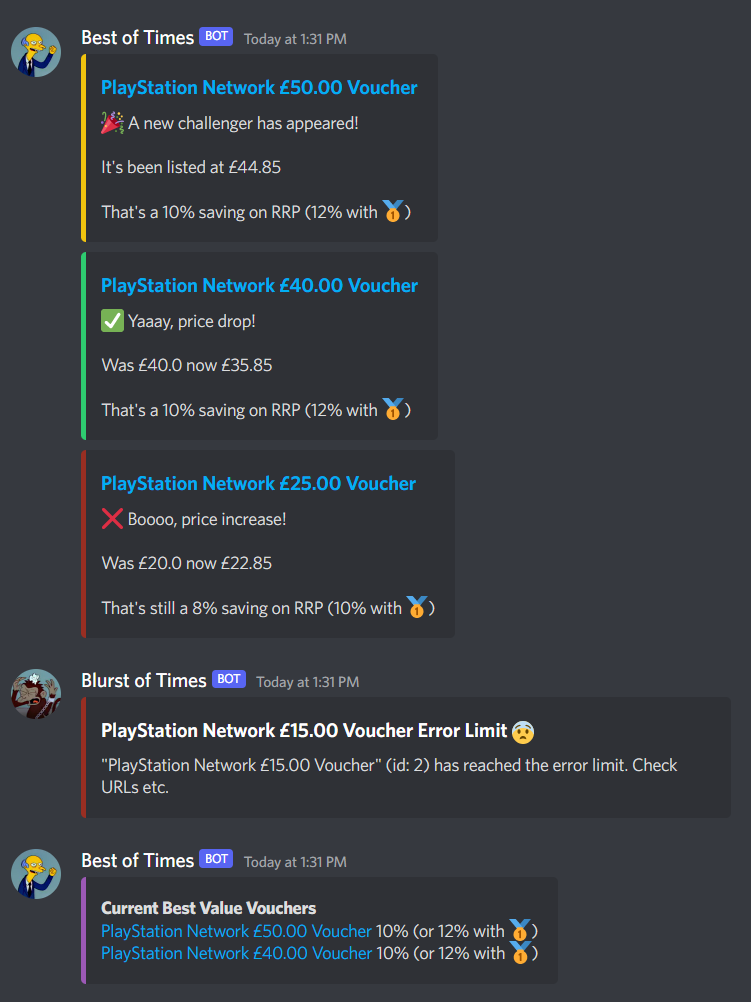
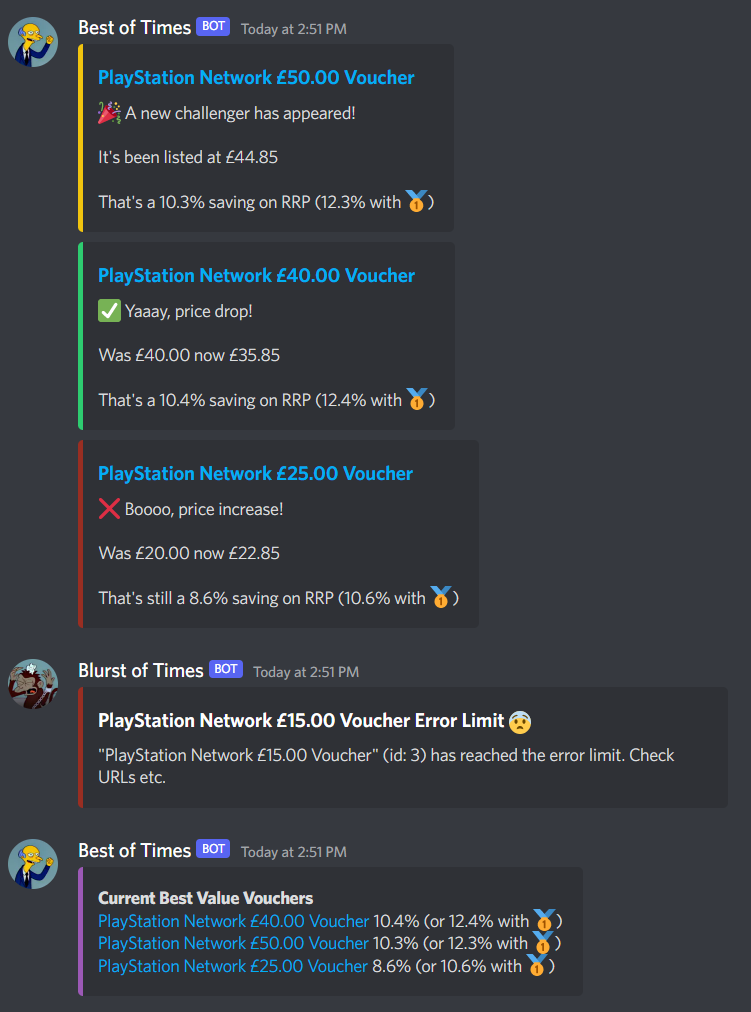
Better handling and storage of saving calculation To appease @tenaka30

Changed region(s): [[0.0, 0.0, 0.9188, 0.99]]

diff --git a/app.py b/app.py
@@ -189,34 +189,34 @@ def check_psn_vouchers(webhook_url="", webhook_error_url=""):
             if product["price"] == -1:
                 # New product (existing price is -1)
                 changed_data = True
-                print(f'A new challenger! {product["name"]} has been added at £{price}')
-                product["saving"] = int((product["rrp"] - price) / product["rrp"] * 100)
-                product["savingGold"] = int((product["rrp"] - price) / product["rrp"] * 100 + loyalty_discount)
-                discord_message_embed["description"] = f'🎉 A new challenger has appeared!\n\nIt\'s been listed at £{price}\n\nThat\'s a {product["saving"]}% saving on RRP ({product["savingGold"]}% with 🥇)'
+                print(f'A new challenger! {product["name"]} has been added at £{price:0.2f}')
+                product["saving"] = (product["rrp"] - price) / product["rrp"] * 100
+                product["savingGold"] = (product["rrp"] - price) / product["rrp"] * 100 + loyalty_discount
+                discord_message_embed["description"] = f'🎉 A new challenger has appeared!\n\nIt\'s been listed at £{price:0.2f}\n\nThat\'s a {product["saving"]:0.1f}% saving on RRP ({product["savingGold"]:0.1f}% with 🥇)'
                 discord_message_embed["color"] = 15844367
                 product["price"] = price
             elif price < product["price"]:
                 # Yay cheaper
                 changed_data = True
-                print(f'Yaaay! {product["name"]} was £{product["price"]} now £{price}')
-                product["saving"] = int((product["rrp"] - price) / product["rrp"] * 100)
-                product["savingGold"] = int((product["rrp"] - price) / product["rrp"] * 100 + loyalty_discount)
-                discord_message_embed["description"] = f'✅ Yaaay, price drop!\n\nWas £{product["price"]} now £{price}\n\nThat\'s a {product["saving"]}% saving on RRP ({product["savingGold"]}% with 🥇)'
+                print(f'Yaaay! {product["name"]} was £{product["price"]:0.2f} now £{price:0.2f}')
+                product["saving"] = (product["rrp"] - price) / product["rrp"] * 100
+                product["savingGold"] = (product["rrp"] - price) / product["rrp"] * 100 + loyalty_discount
+                discord_message_embed["description"] = f'✅ Yaaay, price drop!\n\nWas £{product["price"]:0.2f} now £{price:0.2f}\n\nThat\'s a {product["saving"]:0.1f}% saving on RRP ({product["savingGold"]:0.1f}% with 🥇)'
                 discord_message_embed["color"] = 3066993
                 product["price"] = price
             elif price > product["price"]:
                 # Boo more expensive
                 changed_data = True
-                print(f'Boooo! {product["name"]} was £{product["price"]} now £{price}')
-                product["saving"] = int((product["rrp"] - price) / product["rrp"] * 100)
-                product["savingGold"] = int((product["rrp"] - price) / product["rrp"] * 100 + loyalty_discount)
-                discord_message_embed["description"] = f'❌ Boooo, price increase!\n\nWas £{product["price"]} now £{price}\n\nThat\'s still a {product["saving"]}% saving on RRP ({product["savingGold"]}% with 🥇)'
+                print(f'Boooo! {product["name"]} was £{product["price"]:0.2f} now £{price:0.2f}')
+                product["saving"] = (product["rrp"] - price) / product["rrp"] * 100
+                product["savingGold"] = (product["rrp"] - price) / product["rrp"] * 100 + loyalty_discount
+                discord_message_embed["description"] = f'❌ Boooo, price increase!\n\nWas £{product["price"]:0.2f} now £{price:0.2f}\n\nThat\'s still a {product["saving"]:0.1f}% saving on RRP ({product["savingGold"]:0.1f}% with 🥇)'
                 discord_message_embed["color"] = 10038562
                 product["price"] = price
             else:
                 # Meh no change
                 discord_message_embed = None
-                print(f'{product["name"]} price unchanged (£{product["price"]} now £{price})')
+                print(f'{product["name"]} price unchanged (£{product["price"]:0.2f} now £{price:0.2f})')
 
             if discord_message_embed:
                 discord_message = {
@@ -226,10 +226,10 @@ def check_psn_vouchers(webhook_url="", webhook_error_url=""):
                 discord.send_discord_message(message=discord_message, webhook_url=webhook_url)
 
     # If any of the product data has changed calculate what the new best value product is, and
-    # send a Discord message
+    # send a Discord message. Display the top 5 vouchers (exclude any with errors or invalid price)
     if changed_data:
-        best_value = sorted(product_data, key=lambda d: d["saving"], reverse=True)[0]
-        best_value_list = list(filter(lambda d: d["saving"] == best_value["saving"], product_data))
+        best_value = sorted(product_data, key=lambda d: d["saving"], reverse=True)[:5]
+        best_value_list = list(filter(lambda d: d["error"] == 0 and d["price"] >= 0, best_value))
         if len(best_value_list) > 1:
             best_value_message = f'**Current Best Value Vouchers**'
         else:
@@ -237,7 +237,7 @@ def check_psn_vouchers(webhook_url="", webhook_error_url=""):
 
         for item in best_value_list:
             best_value_message += f'\n'
-            best_value_message += f'[{item["name"]}]({item["url"]})\t{item["saving"]}% (or {item["savingGold"]}% with 🥇)'
+            best_value_message += f'[{item["name"]}]({item["url"]})\t{item["saving"]:0.1f}% (or {item["savingGold"]:0.1f}% with 🥇)'
 
         discord_message_embed = None
         discord_message = None
